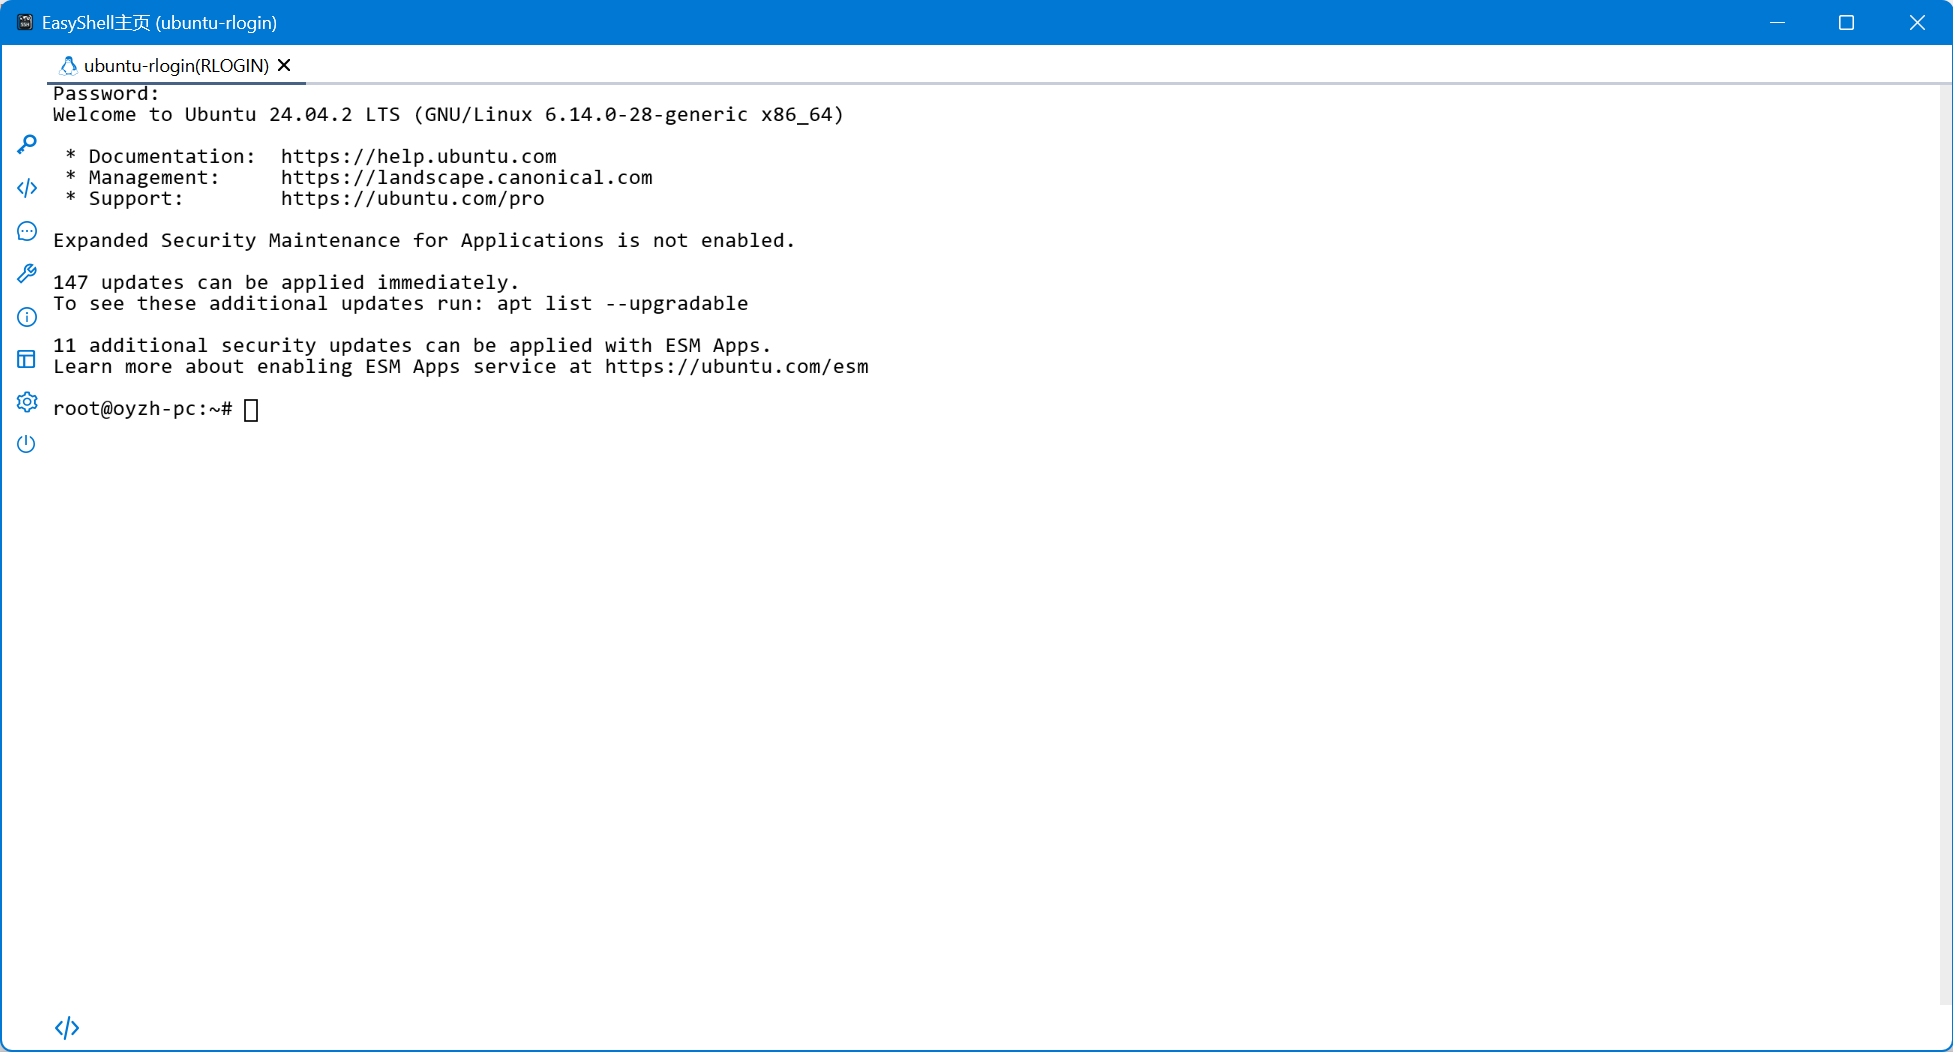
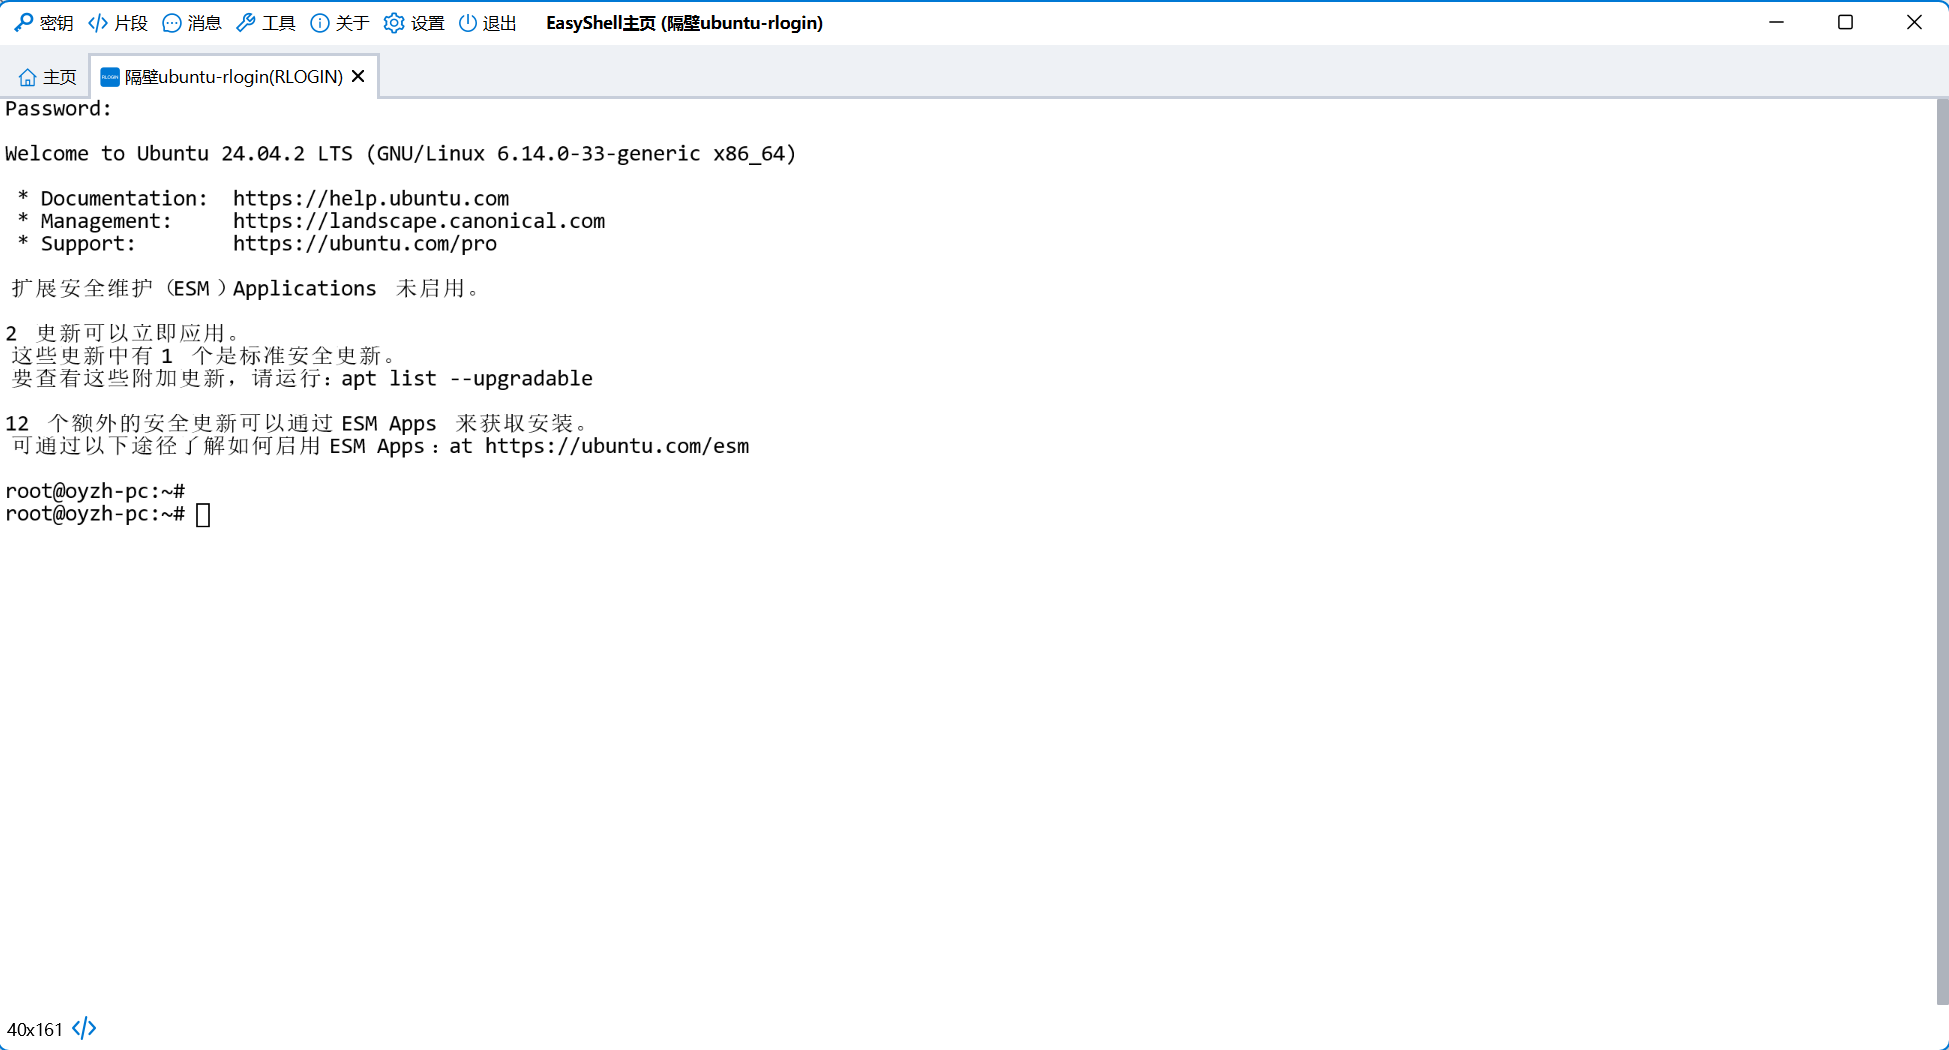
update: rLogin协议相关截图更新 update: readme.md

Changed region(s): [[0.0, 0.0, 1.0, 1.0], [0.0, 0.9752, 0.0616, 1.0]]

diff --git a/src/main/java/cn/oyzh/easyshell/rlogin/ShellRLoginTtyConnector.java b/src/main/java/cn/oyzh/easyshell/rlogin/ShellRLoginTtyConnector.java
@@ -57,7 +57,7 @@ public class ShellRLoginTtyConnector extends ShellDefaultTtyConnector {
     /**
      * 是否已输入密码
      */
-    private boolean inputPasswd = false;
+    private boolean inputPasswd;
 
     @Override
     protected int doRead(char[] buf, int offset, int len) throws IOException {
@@ -68,9 +68,9 @@ public class ShellRLoginTtyConnector extends ShellDefaultTtyConnector {
             this.inputPasswd = true;
             String password = this.client.getShellConnect().getPassword();
             if (StringUtil.isNotBlank(password)) {
-                this.shellWriter.write(password + "\r");
-            } else {
-                this.shellWriter.write("\r");
+                this.shellWriter.write(password + "\r\n");
+            // } else {
+            //     this.shellWriter.write("\r");
             }
             this.shellWriter.flush();
         }

diff --git a/README.md b/README.md
@@ -6,20 +6,19 @@ EasyShell 是一个功能强大、现代化、跨平台的多协议客户端。
 ## 功能特性
 - **多协议支持**：支持 SSH、FTP、SFTP、Redis、ZooKeeper、串口、VNC、Telnet、RLogin、S3、RDP、SMB、Webdav、Mysql、本地终端等多种连接方式。
 - **连接管理**：支持连接的添加、编辑、删除、导入、导出等操作。
-- **文件传输**：支持文件上传、下载、删除、重命名、权限修改等操作。
-- **密钥管理**：支持密钥的生成、导入、导出、复制等操作。
+- **密钥管理**：支持密钥的生成、导入、导出、编辑、复制到主机等操作。
 - **片段执行**：支持代码片段的保存和执行。
-- **SSH 仿真终端**：支持 SSH 协议的连接、服务监控、sftp、docker管理、进程管理、服务信息查看，配置文件查看等操作。
+- **SSH 仿真终端**：支持 SSH 协议的连接、服务监控、sftp、docker管理、进程管理、服务信息查看、配置文件编辑等操作。
 - **RLogin 仿真终端**：支持 RLogin 协议的连接。
 - **Telnet 仿真终端**：支持 Telnet 协议的连接。
 - **SerialPort仿真终端**：支持 SerialPort 协议的连接。
-- **S3 客户端**：支持 S3 协议的连接、文件管理，上传、下载、更名、桶新增、修改、删除等操作。
-- **SMB 客户端**：支持 SMB 协议的连接、文件管理，上传、下载、更名等操作。
-- **Webdav 客户端**：支持 Webdav 协议的连接、文件管理，上传、下载、更名等操作。
-- **FTP 客户端**：支持 FTP 协议的连接、文件管理，上传、下载、更名等操作。
-- **SFTP 客户端**：支持 SFTP 协议的连接、文件管理，上传、下载、更名等操作。
+- **S3 客户端**：支持 S3 协议的连接、文件管理，上传、下载、更名、预览、编辑、分享链接、桶新增、修改、删除等操作。
+- **SMB 客户端**：支持 SMB 协议的连接、文件管理，上传、下载、更名、预览、编辑等操作。
+- **Webdav 客户端**：支持 Webdav 协议的连接、文件管理，上传、下载、更名、预览、编辑等操作。
+- **FTP 客户端**：支持 FTP 协议的连接、文件管理，上传、下载、更名、预览、编辑等操作。
+- **SFTP 客户端**：支持 SFTP 协议的连接、文件管理，上传、下载、更名、预览、编辑等操作。
 - **VNC 客户端**：支持 VNC 协议的连接。
-- **RDP 客户端**：支持 RDP 协议的连接。
+- **RDP 客户端**：支持 RDP 协议的管理和跳转。
 - **Redis 客户端**：支持 Redis 协议的增删改查、导出、导入、传输、终端等操作。
 - **ZooKeeper 客户端**：支持 ZooKeeper 协议的增删改查、ACL管理、权限设置、导入、导出、传输、终端等操作。
 - **Mysql 客户端**：支持 Mysql 协议的表、视图、函数、过程、事件、视图管理、查询、导入、导出、传输等操作。
